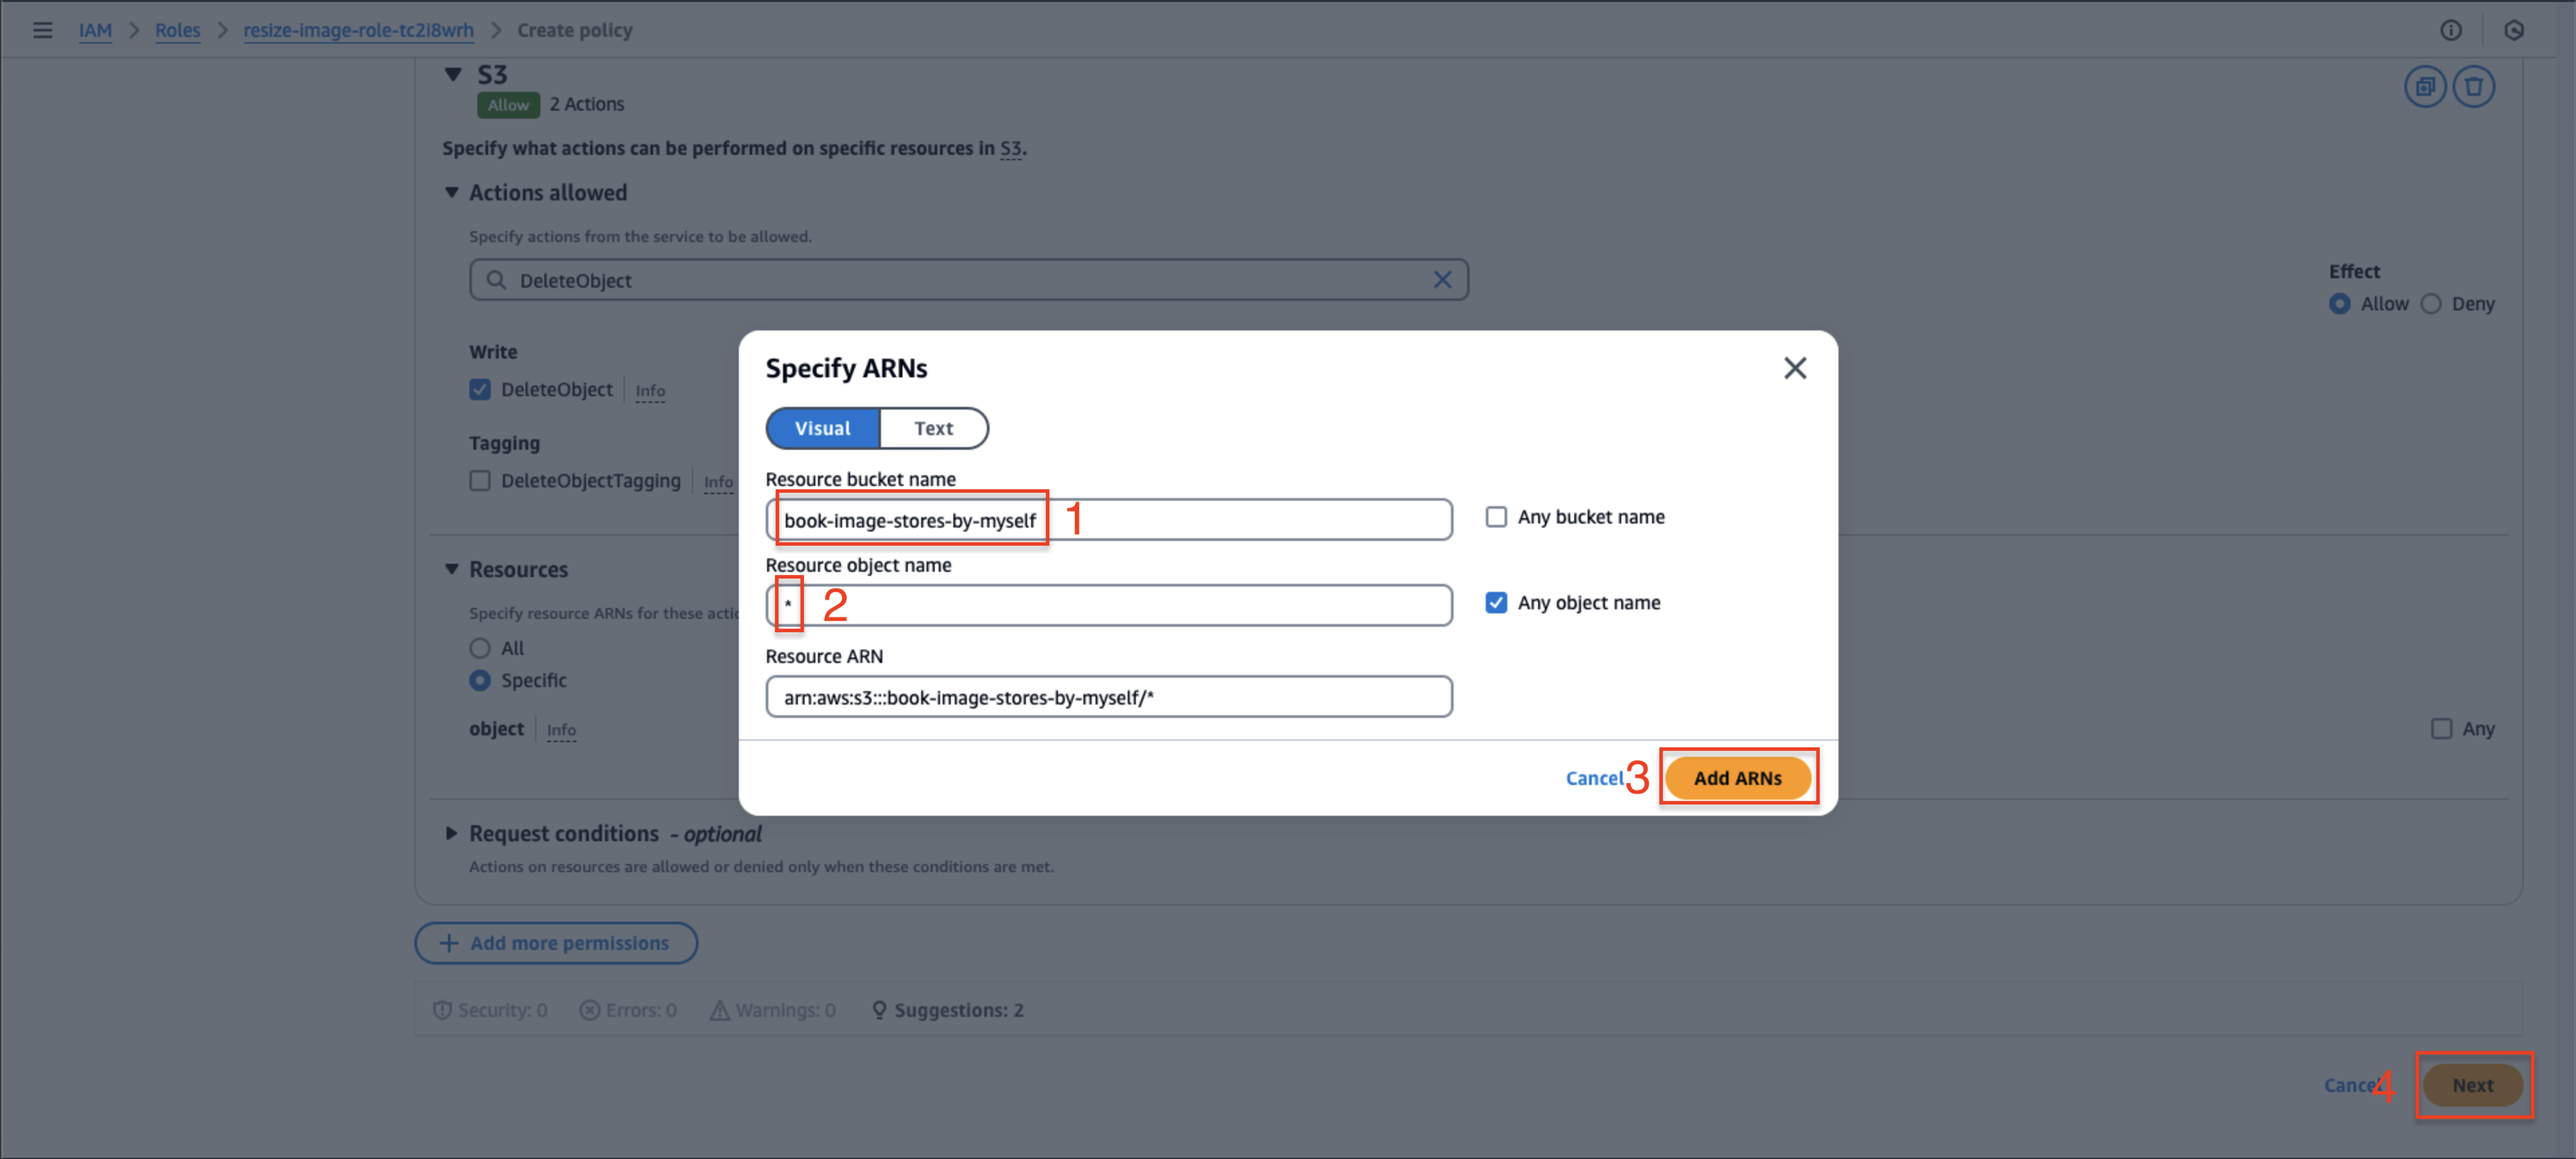
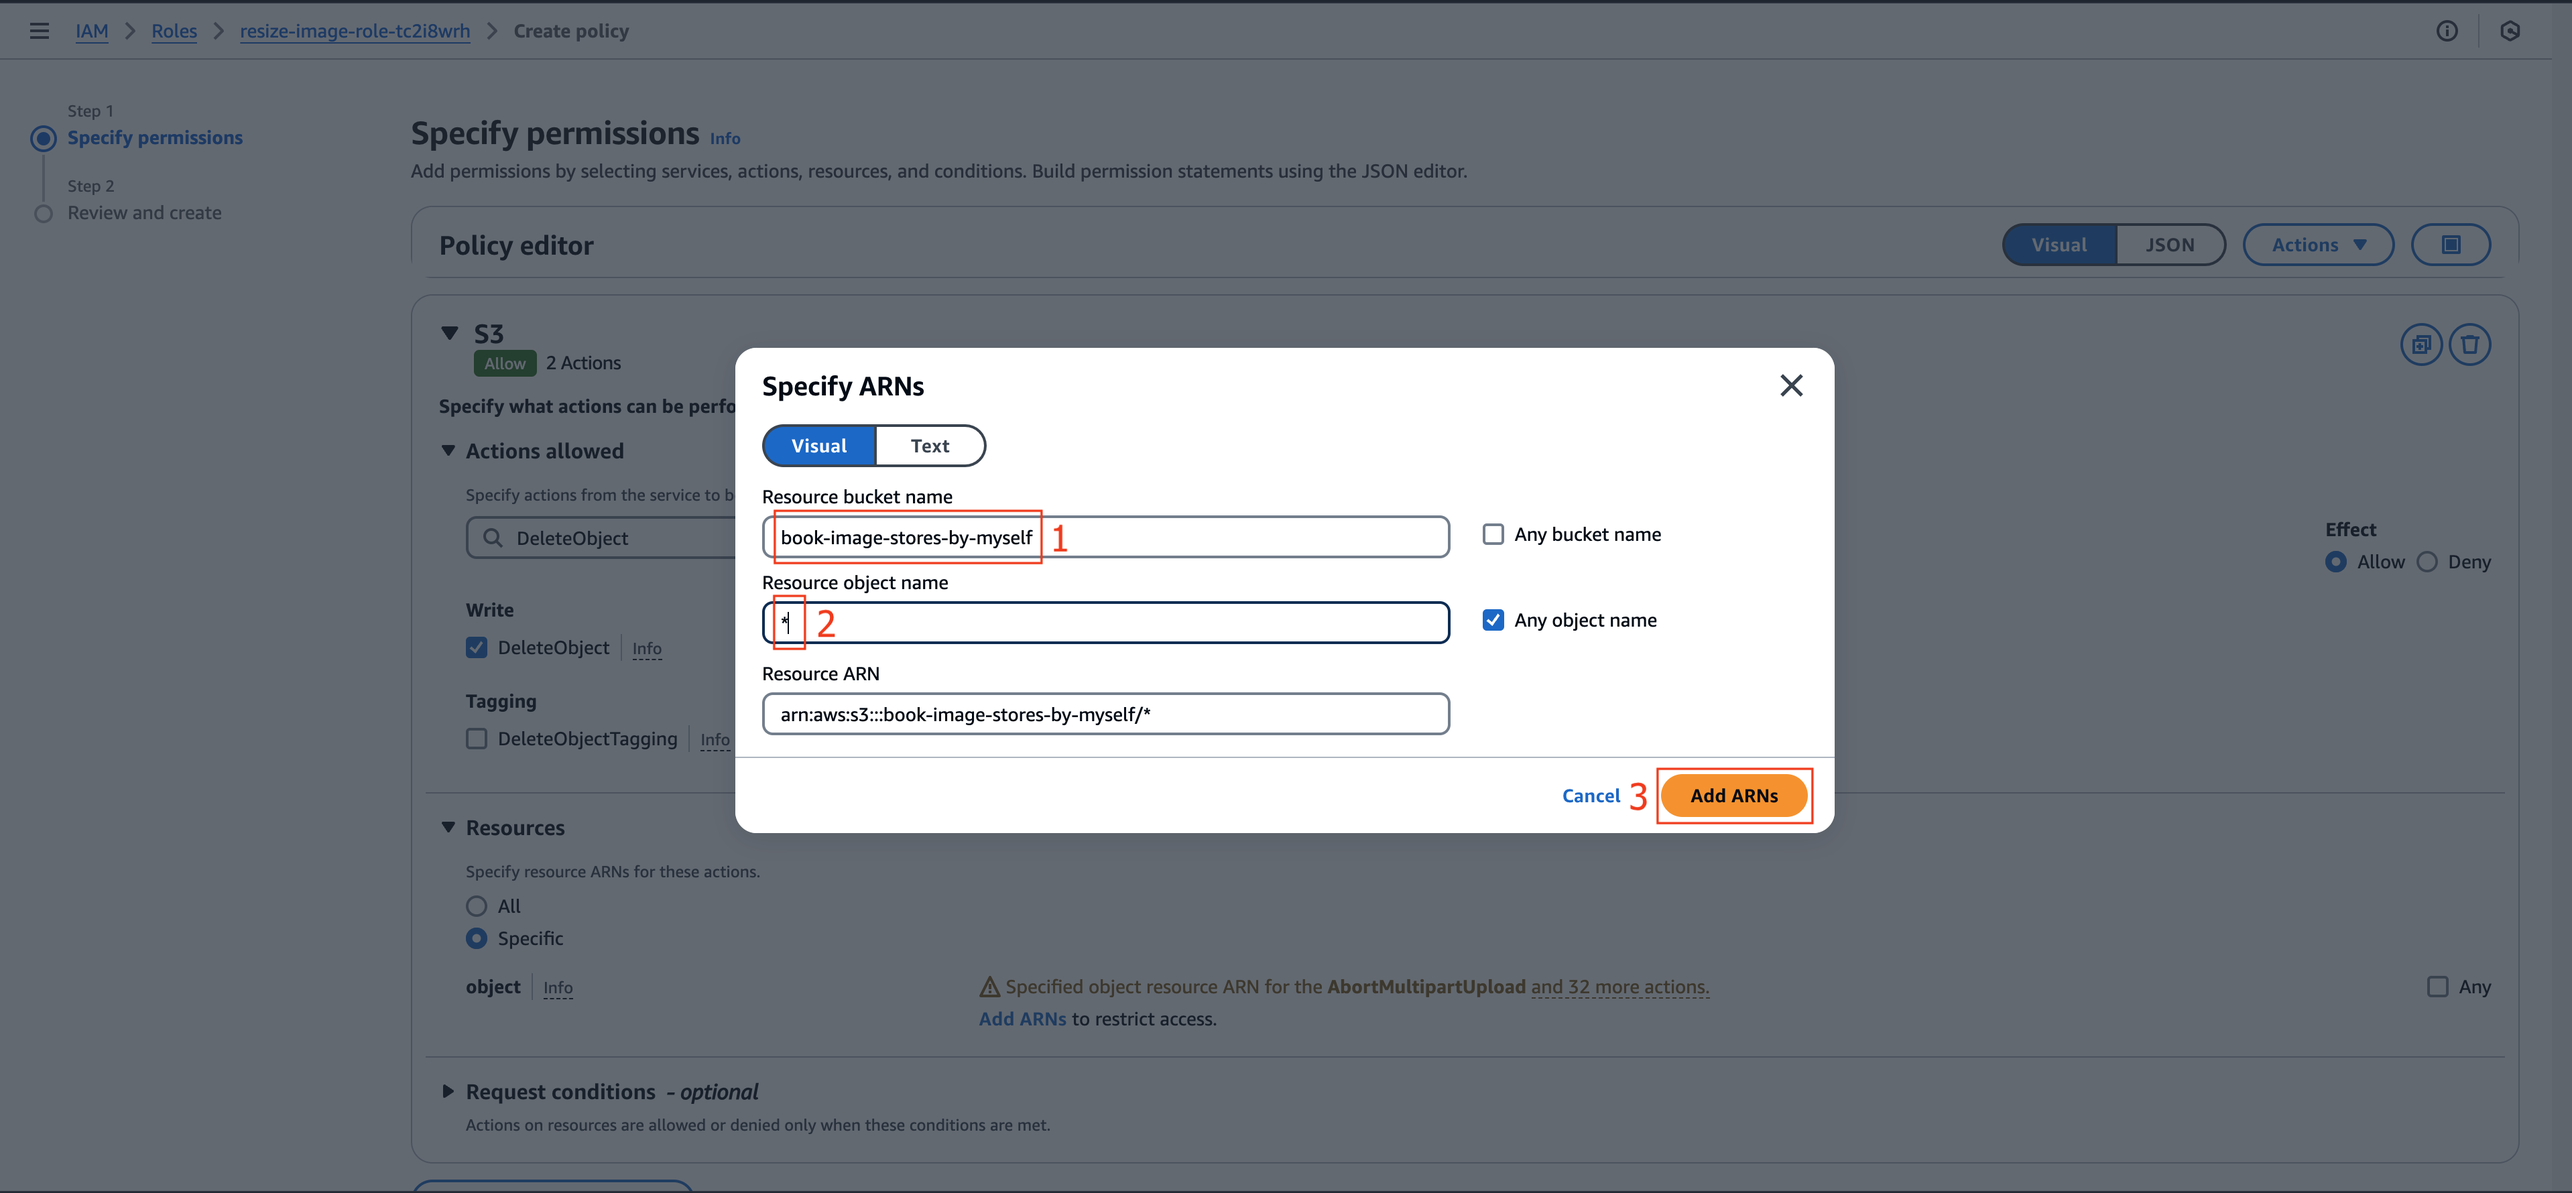
Finish step 2.3

diff --git a/content/2-resize-image-function/2-3-create-policy-access-s3/_index.md b/content/2-resize-image-function/2-3-create-policy-access-s3/_index.md
@@ -17,7 +17,7 @@ In this part, we will create a Policy that grants the Lambda function permission
     - Select **Create inline policy**.
 ![CreatePolicy](/images/temp/1/17.png?width=90pc)
 
-1. At **step 1: Specify permissions** page.
+3. At **Step 1: Specify permissions** page.
     - Click **Choose a service** and Enter **S3**.
     - Select **S3**.
   ![CreatePolicy](/images/temp/1/18.png?width=90pc)
@@ -48,41 +48,12 @@ In this part, we will create a Policy that grants the Lambda function permission
     - After modal is closed, click **Next**.
   ![CreatePolicy](/images/temp/1/24.png?width=90pc)
 
-1. Click **Action**, expand **Read** in **Access level**
-    - Check to **GetObject** permission
-![CreatePolicy](/images/1/19.png?width=90pc)
+4. At **Step 2: Review and create** page.
+    - Enter policy name, such as: **LambdaResizeImageS3Policy**.
+    - Review policy information and click **Create policy**.
+![CreatePolicy](/images/temp/1/25.png?width=90pc)
 
-1. Then, expand **Write**
-    - Check to **DeleteObject** permission
-![CreatePolicy](/images/1/20.png?width=90pc)
-
-1. In **Resource**, click **Add ARN** to specify resources.
-![CreatePolicy](/images/1/21.png?width=90pc)
-
-1. Enter bucket name: **book-image-shop**
-    - Check to **Any** to allow permissions for all objects in the bucket
-    - Click **Add**
-![CreatePolicy](/images/1/22.png?width=90pc)
-
-1.  Click **Add additional permissions**
-
-![CreatePolicy](/images/1/23.png?width=90pc)
-
-11. Repeat steps 4 and 5 and 
-    - Then, expand **Write**, check to **PutObject** permission
-    - click **Add ARN** to specify resources.
-![CreatePolicy](/images/1/24.png?width=90pc)
-
-12. Repeat steps 8 and 9 with bucket name is **book-image-resize-shop**
-![CreatePolicy](/images/1/25.png?width=90pc)
-
-13. Click **Next**, Enter policy name, such as: **LambdaResizeImageS3Policy**
-    - Review policy information and click **Create policy**
-![CreatePolicy](/images/1/26.png?width=90pc)
-
-14. Back to adding policy for Lambda function screen, enter the name of the policy we just created.
-    - Check to the policy: **LambdaResizeImageS3Policy**
-    - Click **Attach policies**
-![CreatePolicy](/images/1/27.png?width=90pc)
+5. Check policies just created.
+![CreatePolicy](/images/temp/1/26.png?width=90pc)
 
 We have finished granting the Lambda function read, write, and delete permissions from the S3 bucket. The next step is to test the Lambda function working when uploading an image.
